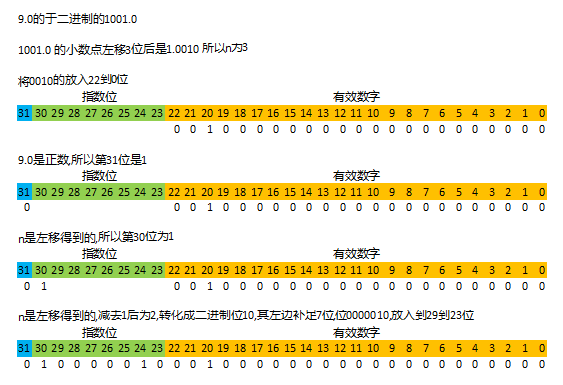
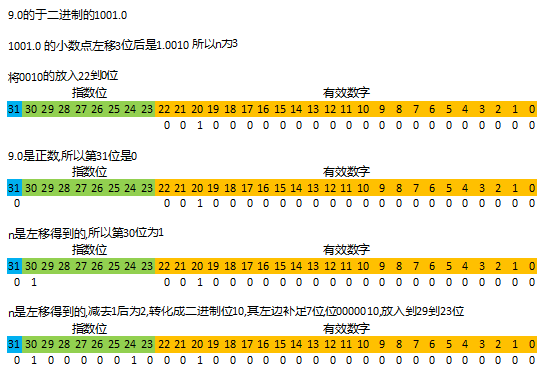
update

diff --git a/记录一次double转float的翻车现场.md b/记录一次double转float的翻车现场.md
@@ -1,9 +1,9 @@
 # 背景  
 
 人逢喜事精神爽,总算熬到下班撩~~  
-正准备和同事打个招呼回家,被同事拖住问了个问题: 你们组做的那块代码,把double类型数据成float有问题啊,我的数据存了后再取出来就不对了💨.
-我: 嗯?不对是正常啊,float精度是没有double高,但float能保存到小数点后好多位,对我们来说完全够用了!
-同事: 不是啊,这不是小数点多少位的问题,而是现在整型数据,转出来也有问题啊,你看.
+正准备和同事打个招呼回家,被同事拖住问了个问题: 你们组做的那块代码,把double类型数据成float有问题啊,我的数据存了后再取出来就不对了💨.  
+我: 嗯?不对是正常啊,float精度是没有double高,但float能保存到小数点后好多位,对我们来说完全够用了!  
+同事: 不是啊,这不是小数点多少位的问题,而是现在整型数据,转出来也有问题啊,你看.  
 
 ![翻车](https://raw.githubusercontent.com/liuzhenyulive/GitDisk/blogs/pic/DoubleToFloat/DoubleToFloat.png)  
 
@@ -48,11 +48,17 @@
 
 对于64位的`双精度`浮点数，最高的1位是符号位S，接着的11位是指数E，剩下的52位为有效数字M。
 
-![double](https://raw.githubusercontent.com/liuzhenyulive/GitDisk/blogs/pic/DoubleToFloat/double.jpg)
+![double](https://raw.githubusercontent.com/liuzhenyulive/GitDisk/blogs/pic/DoubleToFloat/double.jpg)  
+
+经过上面关于浮点数的介绍,相信你可能还是一头雾水,就像下面这幅漫画展示的那样.
+
+![double](https://raw.githubusercontent.com/liuzhenyulive/GitDisk/blogs/pic/DoubleToFloat/horse.png)  
+
+
 
 ## 浮点数转成内存存储
 
-看到了上面的两幅图后,我看看看浮点数据具体怎么在内存中存储的,双精度与单精度类似,这里我以单精度为例:
+为了避免产生上面那种画马的跳跃,我们一小步一小步,看看浮点数据具体怎么在内存中存储的.双精度与单精度类似,这里我以单精度为例.
 
 1. 先将这个实数的绝对值化为二进制格式。 
 2. 将这个二进制格式实数的小数点左移或右移n位，直到小数点移动到第一个有效数字的右边。 
@@ -60,6 +66,14 @@
 4. 如果实数是正的，则在第31位放入“0”，否则放入“1”。 
 5. ⭐如果n 是左移得到的，说明指数是正的，第30位放入“1”。如果n是右移得到的或n=0，则第30位放入“0”。 
 6. 如果n是左移得到的，则将n减去1后化为二进制，并在左边加“0”补足七位，放入第29到第23位。如果n是右移得到的或n=0，则将n化为二进制后在左边加“0”补足七位，再各位求反，再放入第29到第23位。
+
+我们先用上述步骤尝试把9.0转化成二进制存储形式.
+
+![double](https://raw.githubusercontent.com/liuzhenyulive/GitDisk/blogs/pic/DoubleToFloat/float9.0.jpg)  
+
+我们可以通过这个地址校验计算结果的正确性.  https://www.h-schmidt.net/FloatConverter/IEEE754.html  
+可以看到,与我们的计算结果完全一致.  
+
 
 
 
